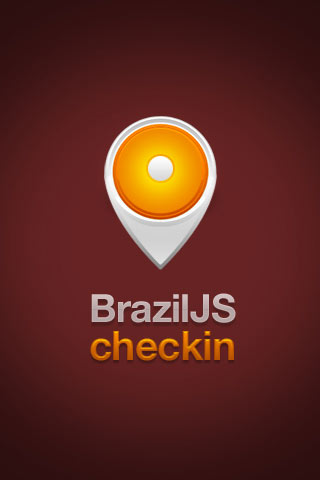
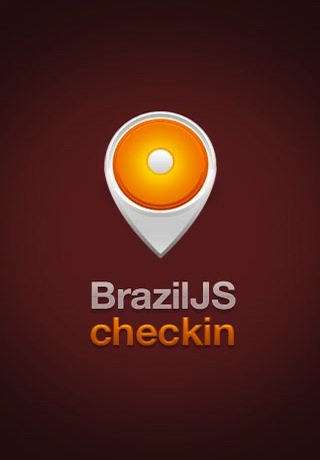
Ajustando o Splash

diff --git a/public/css/style.css b/public/css/style.css
@@ -130,9 +130,10 @@ input:invalid, textarea:invalid {
 
 /* These selection declarations have to be separate
    No text-shadow: twitter.com/miketaylr/status/12228805301
-   Also: hot pink! */
+   Also: hot pink! 
 ::-moz-selection{ background: #FF5E99; color:#fff; text-shadow: none; }
 ::selection { background:#FF5E99; color:#fff; text-shadow: none; }
+*/
 
 /* j.mp/webkit-tap-highlight-color */
 a:link { -webkit-tap-highlight-color: #FF5E99; }
